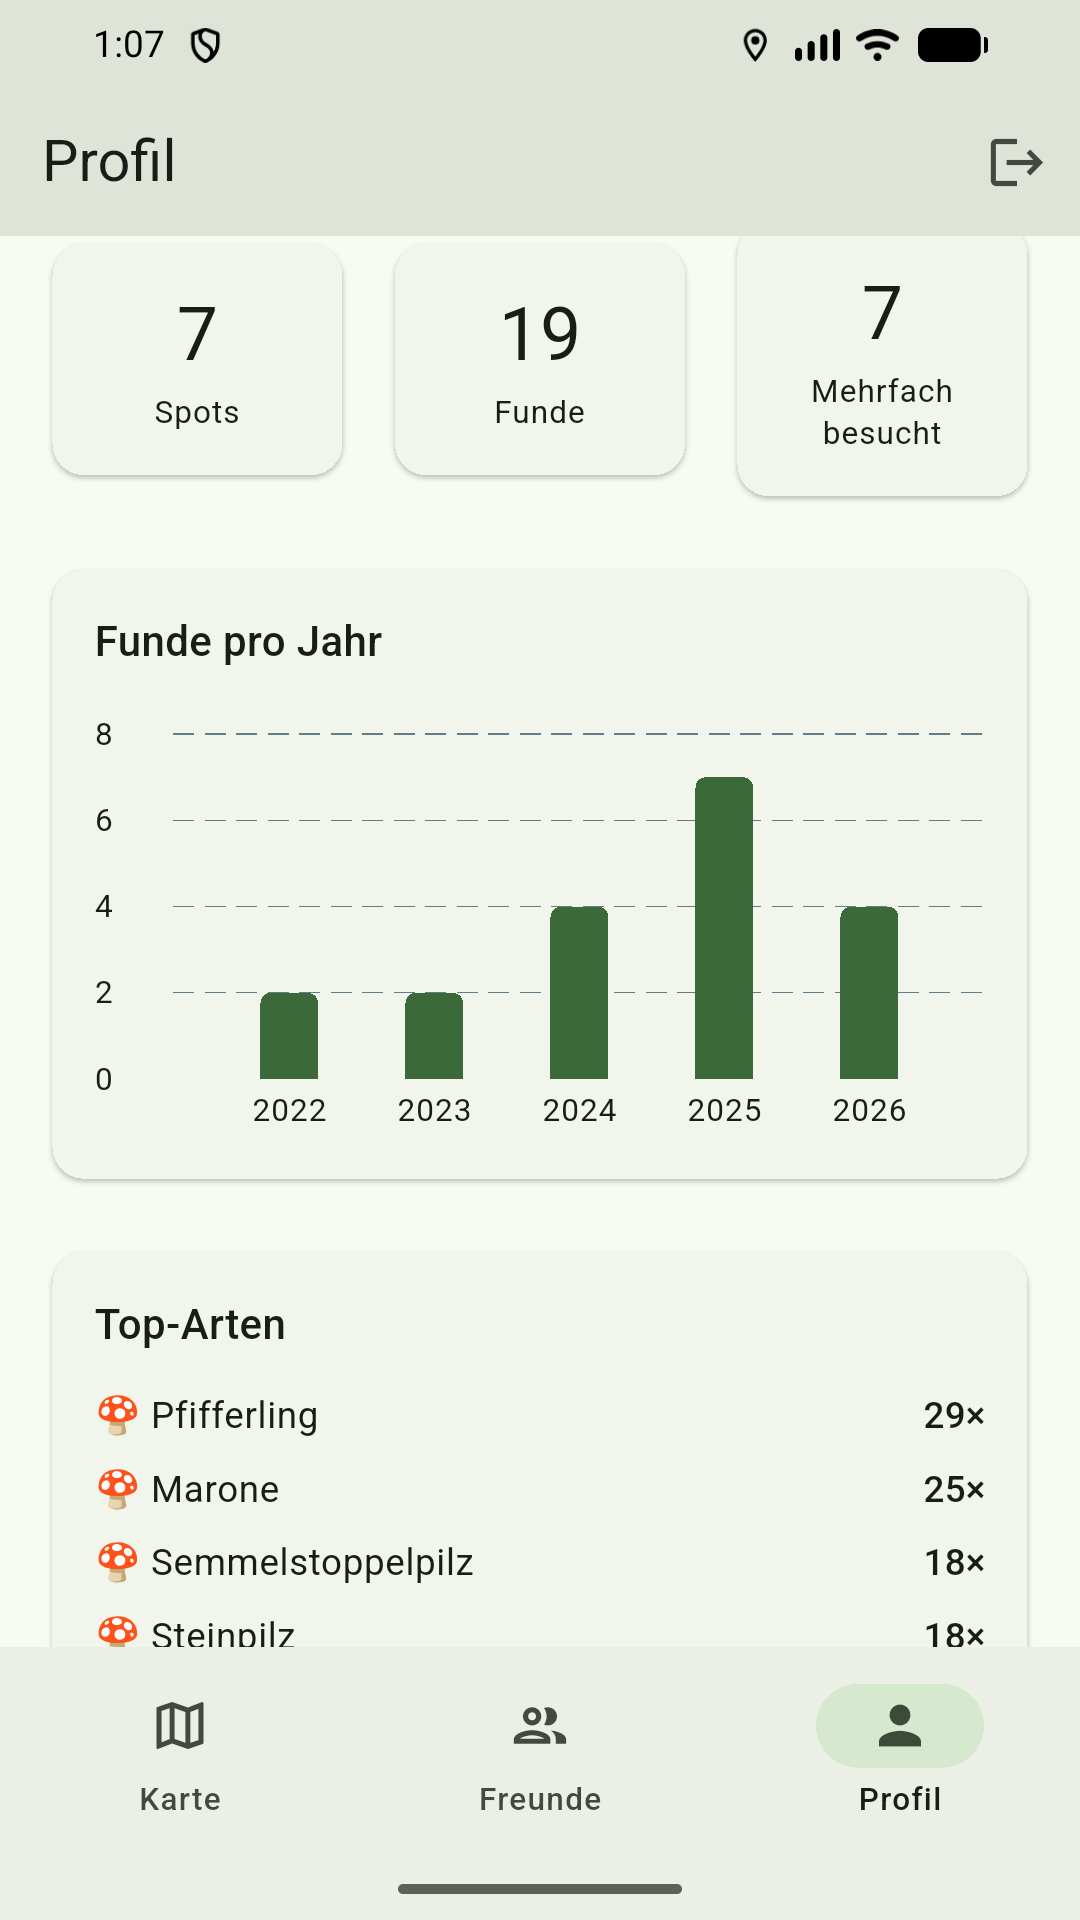
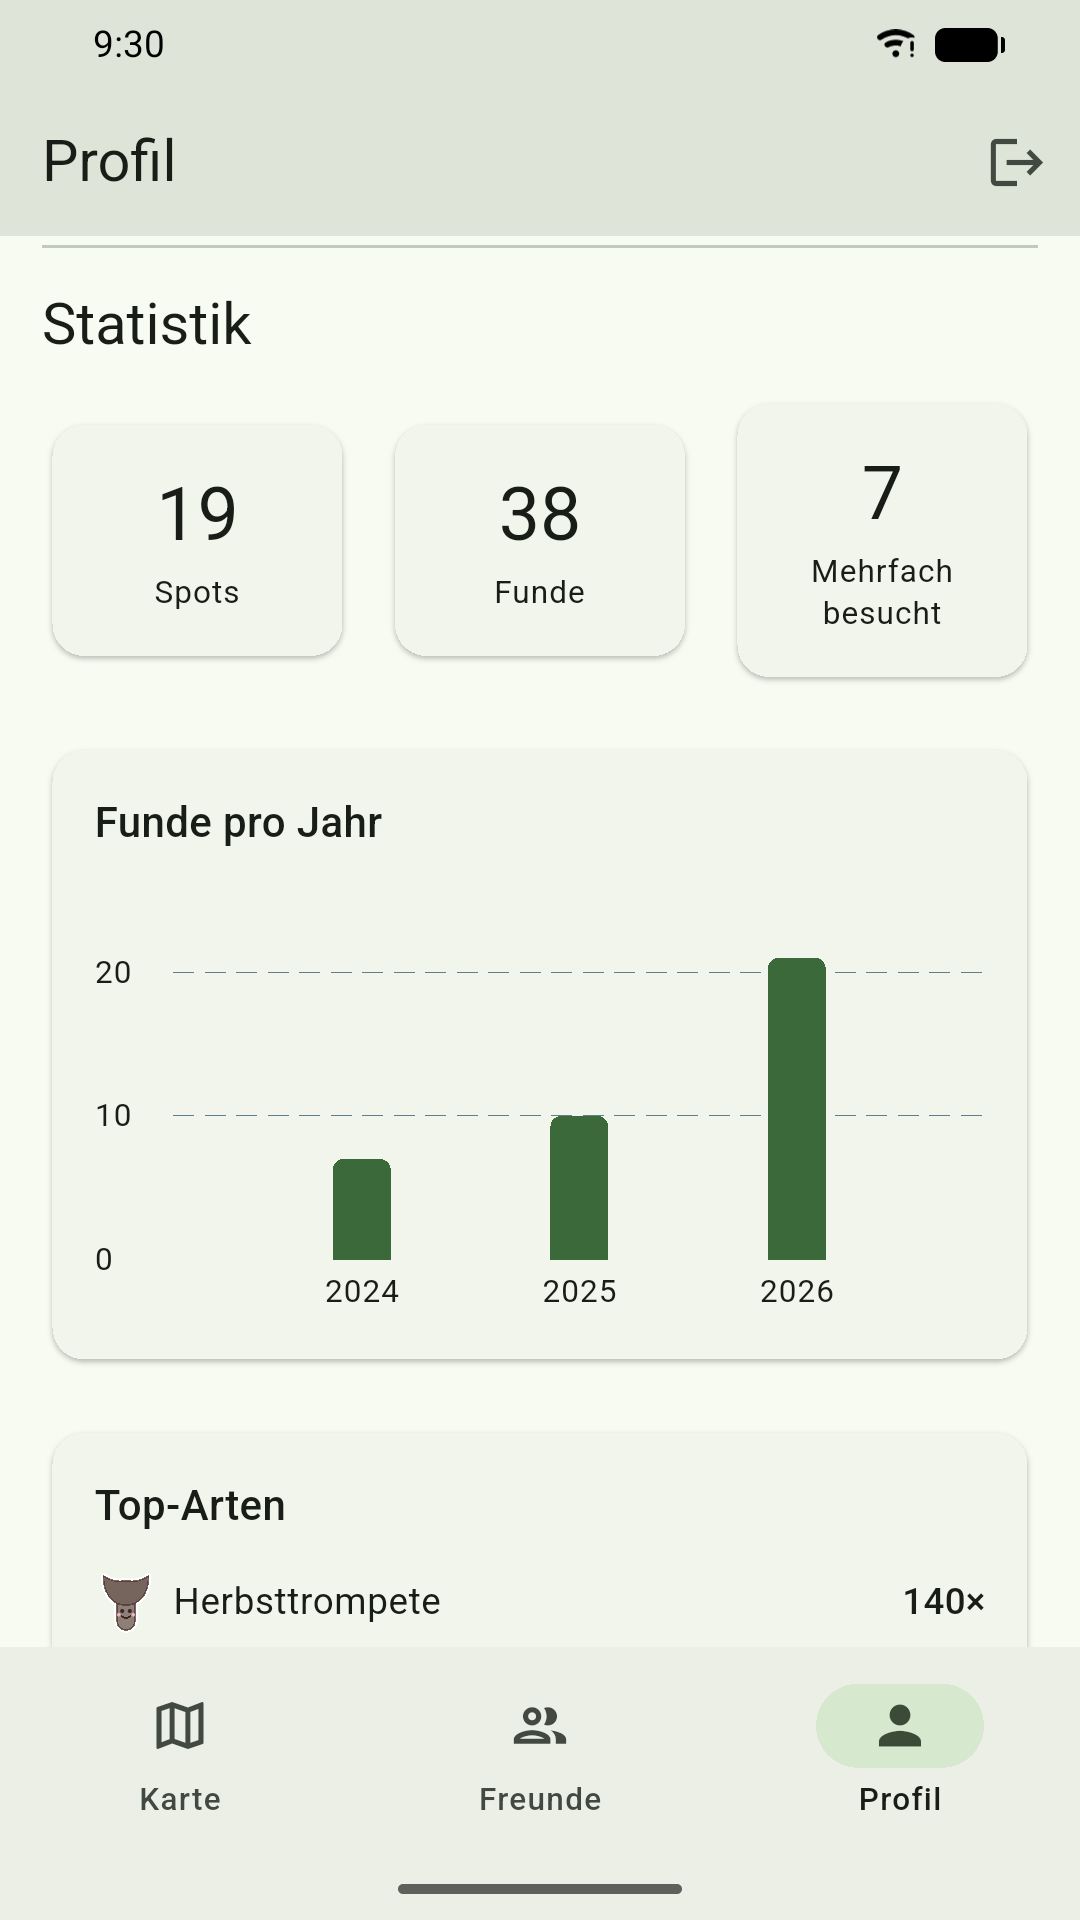
docs(store): statistics and live location, taken on today's app (#329)
Both pictures dated from 21 July, version 1.26.0 — 73 minor versions back.
The staleness note added yesterday pointed straight at them on its first
real run, which is what it is for.

What actually changed on screen:

- **Statistik**: every species in "Top-Arten" used to carry the same red
  fly-agaric icon. They now have their own — Herbsttrompete, Maronen-
  röhrling, Pfifferling, Steinpilz, Hallimasch each recognisable at a
  glance. The year chart also has the reference lines from #216 behind
  its bars, which is the whole point of that issue's first half.
- **Live-Standort**: same sheet, but over a map that shows today's
  rendering and the seeded spots.

`04-freunde.png` stays at 1.26.0 on purpose, and store/README.md now says
why: the friends list can only be shown with real buddy accounts, and the
throwaway accounts from #102 were deleted. Creating four more means four
sign-ups with confirmation mails against a 3/h limit, and the codes land in
mailboxes nobody here can read. The screen itself has not changed since
1.26.0 — the picture is old, not wrong.

Taken with tool/store_screenshots.sh on the emulator at 1080x1920/420,
seeded test account, app version 1.99.1 (the 1.99.2 fix touches only the
password-reset path, nothing visible here) — so that is what the Stand
column says.

store/ and *.md ship in no binary — no version bump.

diff --git a/store/README.md b/store/README.md
@@ -41,8 +41,15 @@ Feature-Grafik mit — im Store stehen beide nebeneinander.
 | `02-karte-pilzwetter.png` | 1.96.0 | Karwendel bei 10 km, Wald + Pilzwetter mit Legende |
 | `03-spot-detail.png` | 1.96.0 | Spot-Detail mit Fundhistorie, Pilzwetter, Saisonkurve, Wald und Bäumen |
 | `04-freunde.png` | 1.26.0 | Freundesliste mit vier Buddies |
-| `05-statistik.png` | 1.26.0 | Spots/Funde/Mehrfach besucht, „Funde pro Jahr", Top-Arten |
-| `06-live-standort.png` | 1.26.0 | Live-Standort teilen (1/2/4 Stunden) |
+| `05-statistik.png` | 1.99.1 | Spots/Funde/Mehrfach besucht, „Funde pro Jahr", Top-Arten |
+| `06-live-standort.png` | 1.99.1 | Live-Standort teilen (1/2/4 Stunden) |
+
+`04-freunde.png` steht bewusst noch auf 1.26.0: Die Freundesliste lässt
+sich nur mit echten Buddy-Konten zeigen, und die Wegwerf-Konten von damals
+sind gelöscht. Neue anzulegen hieße vier Registrierungen samt Bestätigungs-
+mails — gegen ein Limit von 3/h, und die Codes liegen in Postfächern, auf
+die niemand hier Zugriff hat. Der Bildschirm selbst hat sich seit 1.26.0
+nicht verändert; das Bild ist also alt, aber nicht falsch.
 
 **Die Spalte „Stand" ist nicht Zierde.** `tool/screenshot_stand.py` liest sie
 und schreibt beim Befördern eines Releases in die Run-Summary, wie alt das
